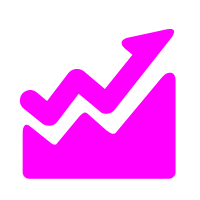
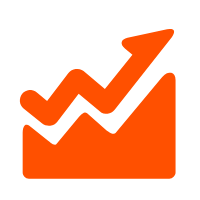
update color

diff --git a/pages/match/match_information/match_information.js b/pages/match/match_information/match_information.js
@@ -1,0 +1,65 @@
+Page({
+
+  /**
+   * 页面的初始数据
+   */
+  data: {
+    
+  },
+
+  /**
+   * 生命周期函数--监听页面加载
+   */
+  onLoad: function (options) {
+    
+  },
+
+  /**
+   * 生命周期函数--监听页面初次渲染完成
+   */
+  onReady: function () {
+    
+  },
+
+  /**
+   * 生命周期函数--监听页面显示
+   */
+  onShow: function () {
+    
+  },
+
+  /**
+   * 生命周期函数--监听页面隐藏
+   */
+  onHide: function () {
+    
+  },
+
+  /**
+   * 生命周期函数--监听页面卸载
+   */
+  onUnload: function () {
+    
+  },
+
+  /**
+   * 页面相关事件处理函数--监听用户下拉动作
+   */
+  onPullDownRefresh: function () {
+    
+  },
+
+  /**
+   * 页面上拉触底事件的处理函数
+   */
+  onReachBottom: function () {
+    
+  },
+
+  /**
+   * 用户点击右上角分享
+   */
+  onShareAppMessage: function () {
+    
+  }
+})

diff --git a/pages/match/match.js b/pages/match/match.js
@@ -124,5 +124,10 @@ Page({
     wx.navigateTo({
       url: 'practice/practice',
     })
+  },
+  toMatchInfo: function () {
+    wx.navigateTo({
+      url: 'match_information/match_information',
+    })
   }
 })
